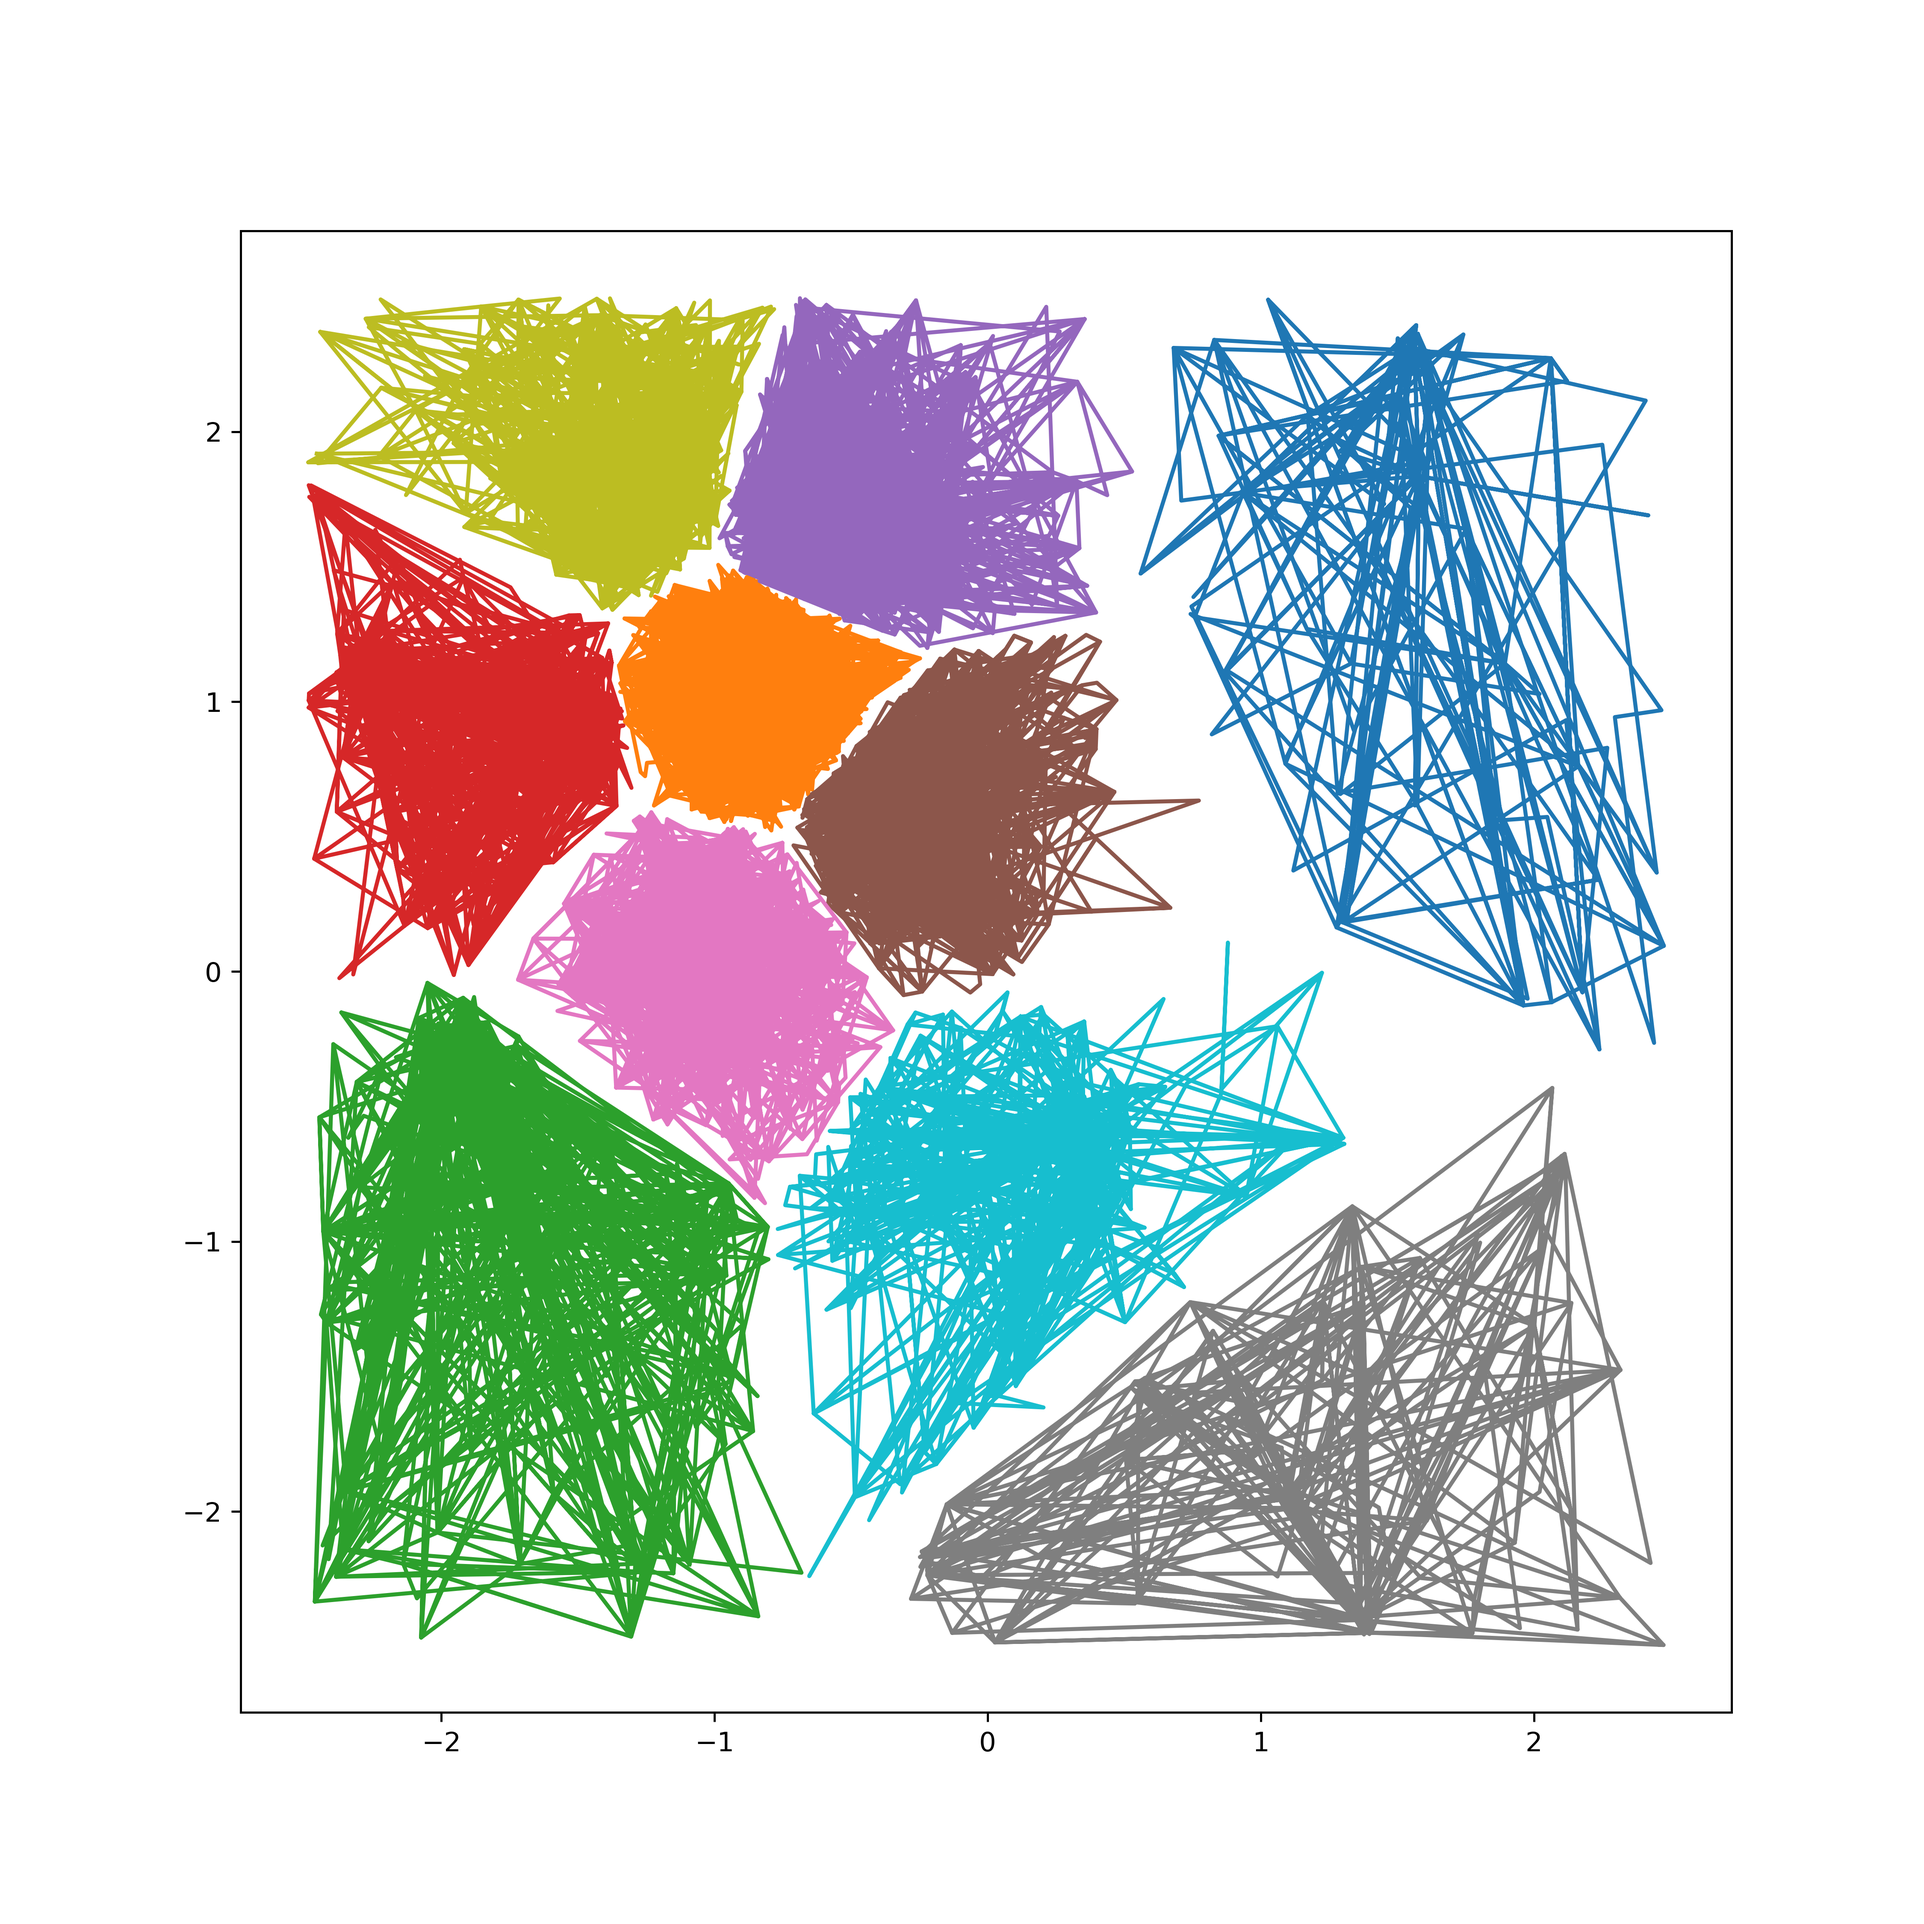
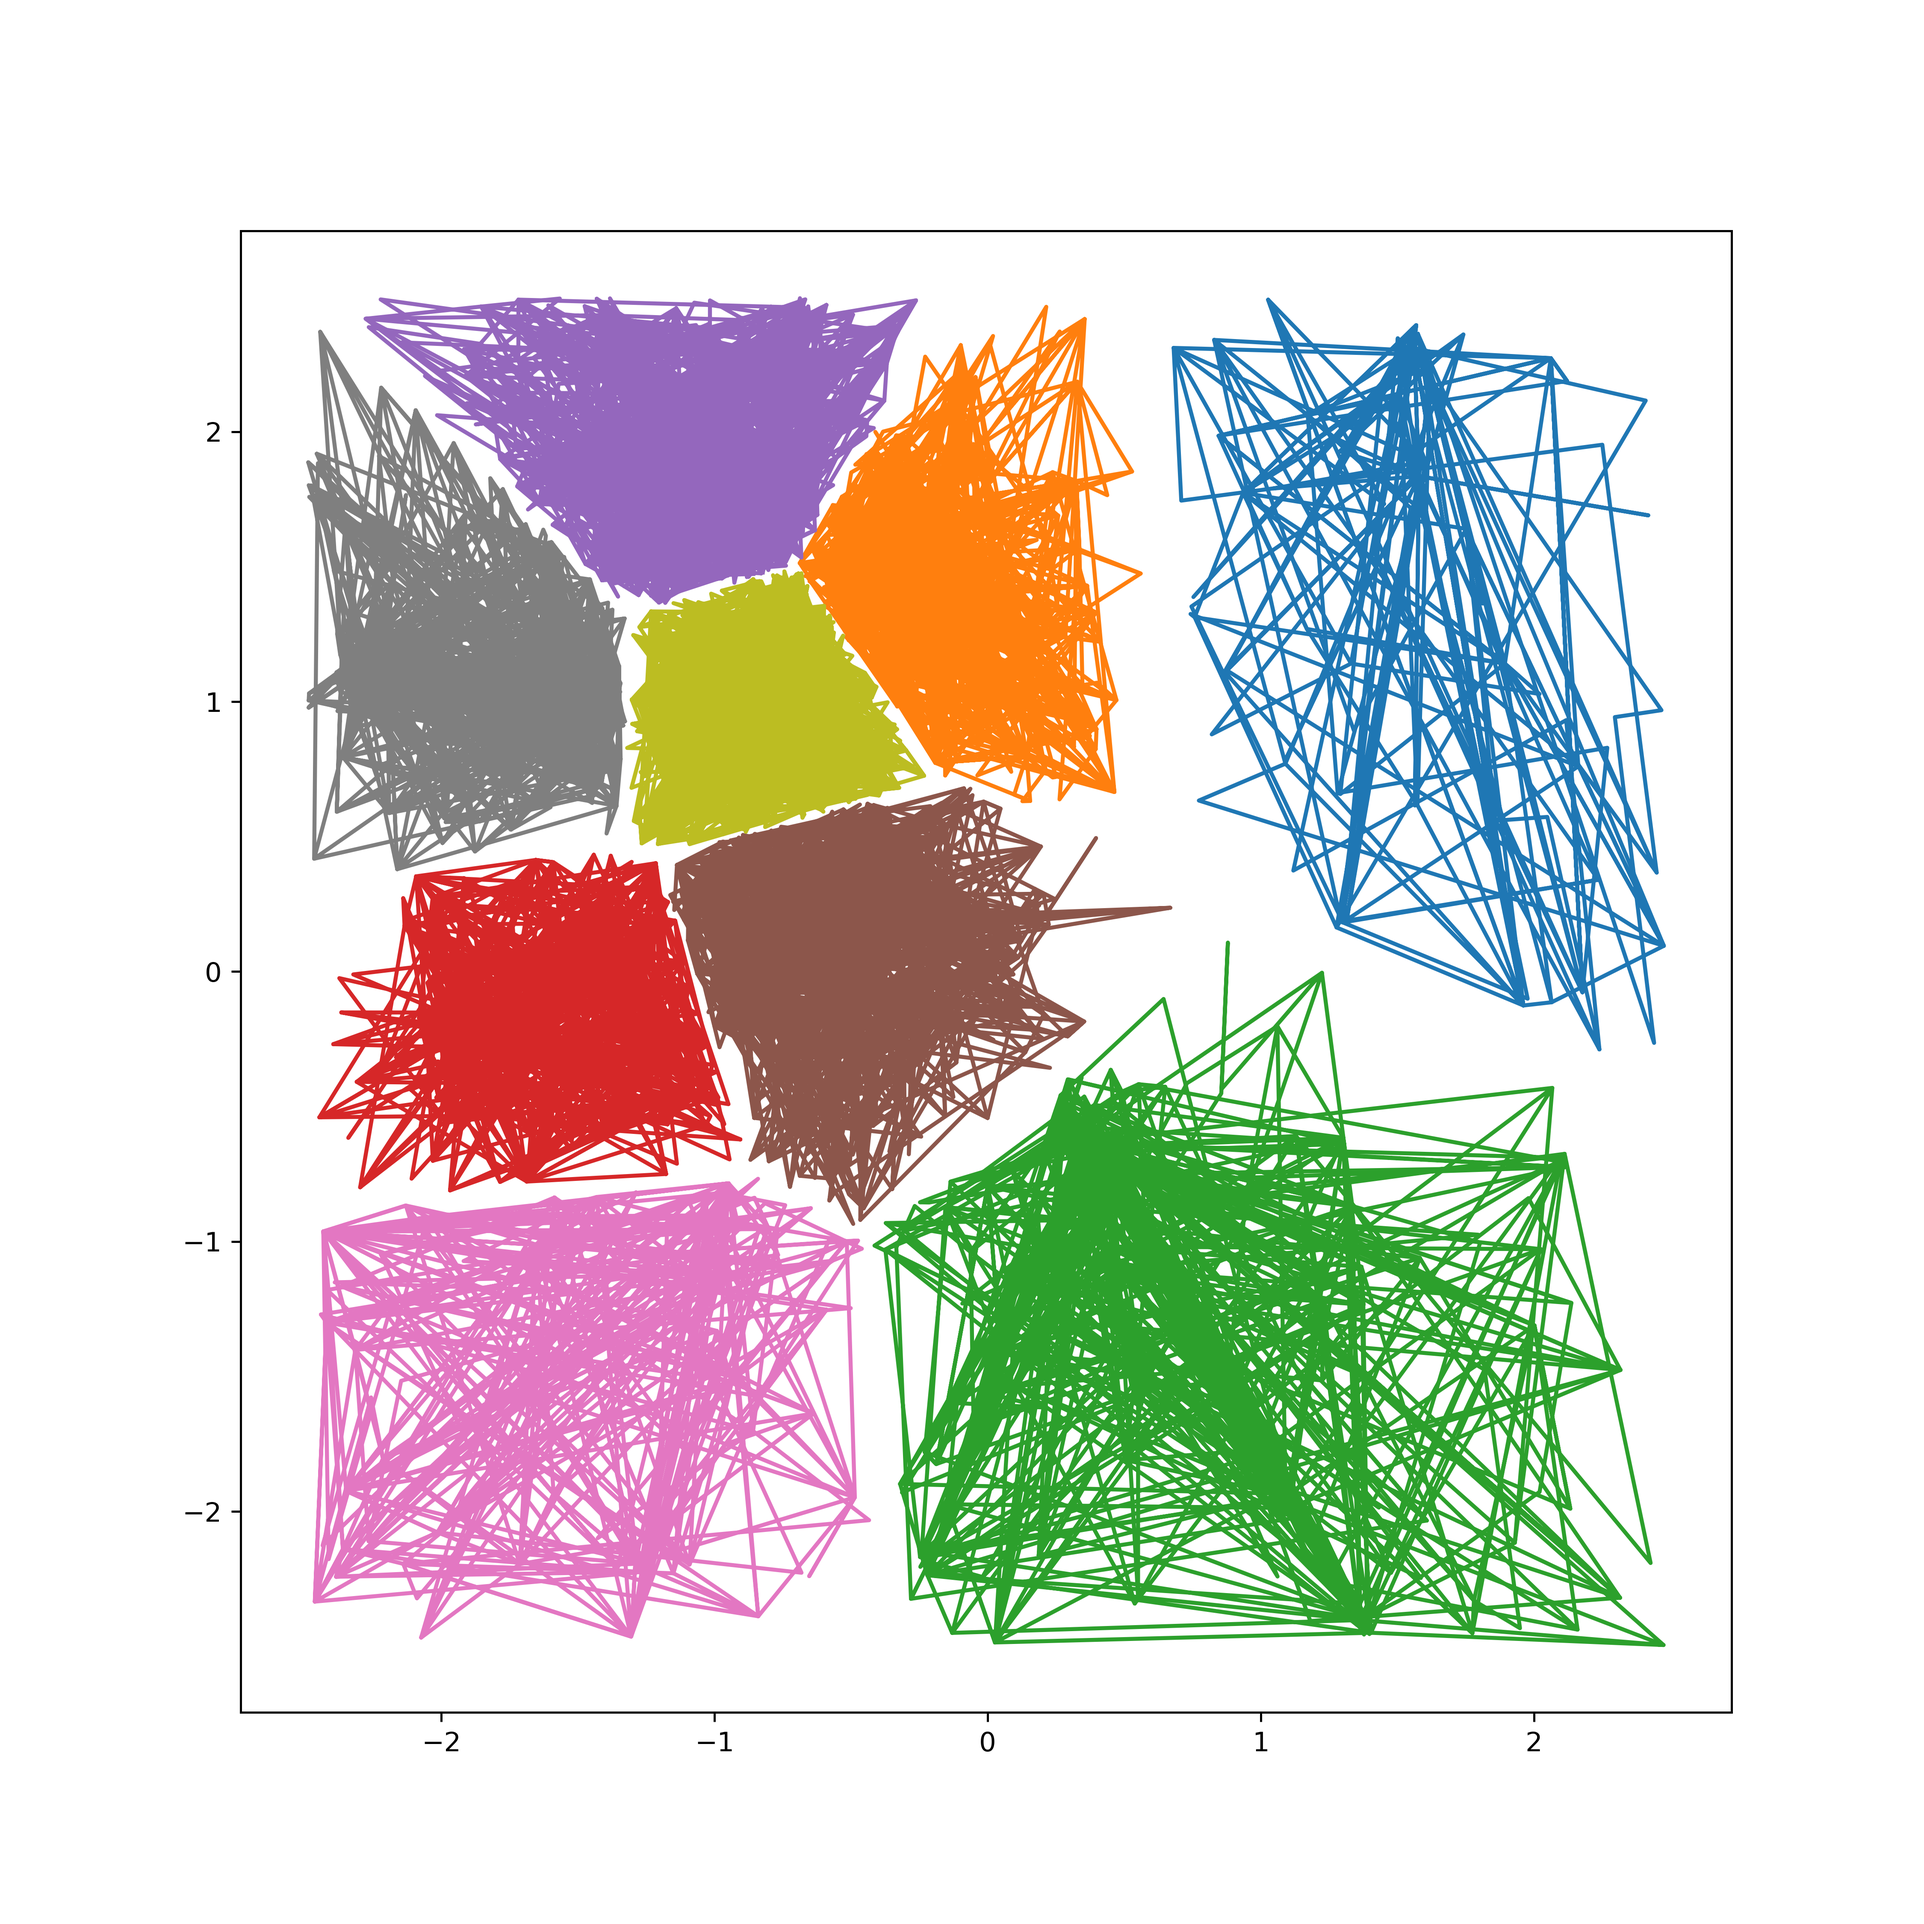
fix

Changed region(s): [[0.1556, 0.1556, 0.8711, 0.8711], [0.7467, 0.4356, 0.7778, 0.4667]]

diff --git a/kmeans.py b/kmeans.py
@@ -15,6 +15,7 @@ class KMeans:
         self.centers = None
         self.clustersIndexDist = None
         self.tol = tol
+        self.elbow = None
         if dataSet is None or k is None:
             print("Dataset or clusters mustn't be NONE!")
             exit(1)
@@ -53,7 +54,7 @@ class KMeans:
             minDist = mat(full_like(self.clustersIndexDist[:, 0], np.inf))
             minIndex = mat(zeros_like(self.clustersIndexDist[:, 0]))
             # update minDist, minIndex
-            for i in tqdm(range(len(self.clustersIndexDist))):
+            for i in (range(len(self.clustersIndexDist))):
                 minDist[i][0], minIndex[i][0] = self.calculate_dist(self.dataSet[i, :], minDist[i], minIndex[i])
             # if clusters changed
             if not array_equal(self.clustersIndexDist[:, 0], minIndex):
@@ -74,7 +75,9 @@ class KMeans:
             del tmp
     
         print('Cluster complete!')
-        return self.dataSet, self.k, self.centers, self.clustersIndexDist
+        # print(self.clustersIndexDist)
+        self.elbow = np.sum([i**2 for i in self.clustersIndexDist[:, -1]])
+        return self.dataSet, self.elbow
 
     # show clusters only available with 2D data
     # self.centers - self.centers of clusters
@@ -111,7 +114,7 @@ class KMeans:
             tmp = np.where(self.clustersIndexDist[:, 0] == i)[0]
             tmp_ = self.dataSet[tmp]
             plt.plot(tmp_[:, 0], tmp_[:, 1])
-        plt.savefig('draw.png', dpi=450)
+        plt.savefig(f'draw_{self.k}.png', dpi=450)
         plt.show()
 
         fig, ax = plt.subplots(figsize=(10, 10))
@@ -128,5 +131,5 @@ class KMeans:
         for i in range(self.k):
             plt.plot(self.centers[i, 0], self.centers[i, 1],
                      '^', c=colors[i], markersize=15)
-        plt.savefig('res.png', dpi=450)
+        plt.savefig(f'res_{self.k}.png', dpi=450)
         plt.show()

diff --git a/main.py b/main.py
@@ -1,12 +1,27 @@
 from kmeans import KMeans
 import pandas as pd
+import matplotlib.pyplot as plt
 
 
 data = pd.read_csv('train.csv', delimiter=',')
 print(data.columns)
 
-kmeans = KMeans(data[['place_latitude', 'place_longitude']][:10000], 10)
-arr = kmeans.kmeans()
-# print(arr)
-kmeans.showClusters()
+kmeans_arr = []
+kmeans_elbow_dist = []
+x = []
+for k in range(2, 10):
+    kmeans = KMeans(data[['place_latitude', 'place_longitude']][:10000], k)
+    arr, elbow = kmeans.kmeans()
+    print(elbow)
+    kmeans_arr.append(kmeans)
+    kmeans_elbow_dist.append(elbow)
+    x += [k]
+    # print(arr)
+    kmeans.showClusters()
+
+
+plt.plot(x, kmeans_elbow_dist)
+plt.savefig('elbow_graph.png', dpi=450)
+plt.show()
+
 
